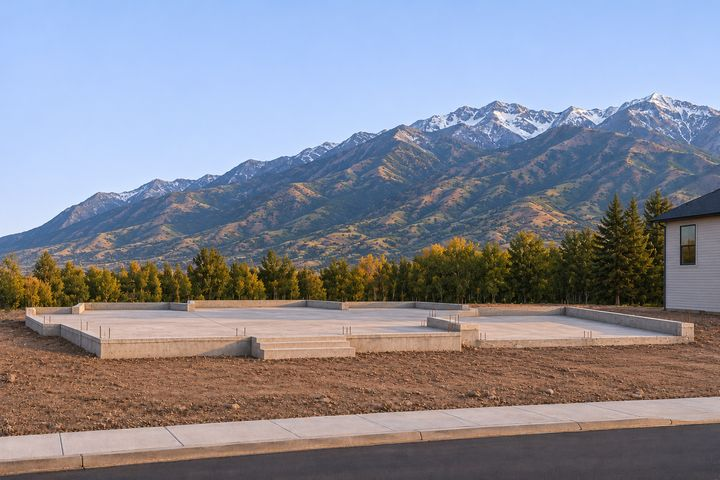
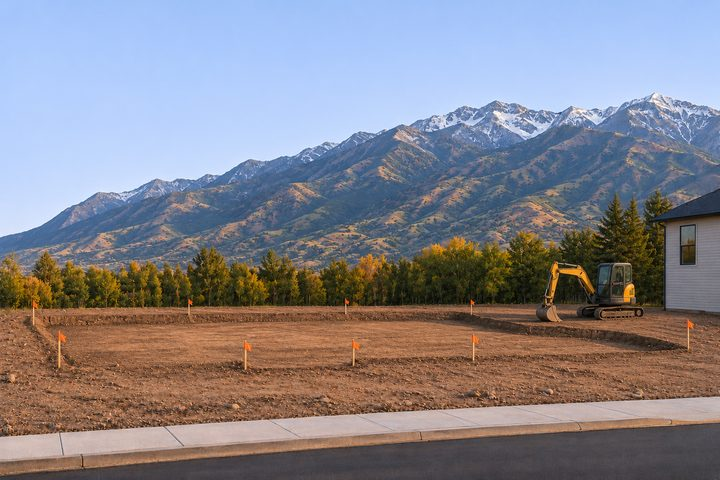
Add files via upload

diff --git a/build.js b/build.js
@@ -1,10 +1,10 @@
 /* Scroll-built house: a small card in the bottom-right corner.
-   The house goes foundation -> framing -> paint -> finished as the visitor scrolls the page. */
+   The house goes site prep -> foundation -> framing -> dry-in -> siding -> finished as the visitor scrolls the page. */
 (() => {
   const es = (document.documentElement.dataset.page || document.documentElement.lang || '').startsWith('es');
   const T = es
-    ? { steps: ['Cimientos', 'Madera', 'Pintura', 'Terminada'], step: (n) => `Paso ${n} de 4`, done: 'Lista', cta: 'Cotiza la tuya gratis', hide: 'Ocultar', label: 'Una casa que se construye mientras bajas' }
-    : { steps: ['Foundation', 'Framing', 'Paint', 'Finished'], step: (n) => `Step ${n} of 4`, done: 'Done', cta: 'Get your free quote', hide: 'Hide', label: 'A house that builds as you scroll' };
+    ? { steps: ['Terreno', 'Cimientos', 'Madera', 'Cerramiento', 'Fachada', 'Terminada'], step: (n) => `Paso ${n} de 6`, done: 'Lista', cta: 'Cotiza la tuya gratis', hide: 'Ocultar', label: 'Una casa que se construye mientras bajas' }
+    : { steps: ['Site Prep', 'Foundation', 'Framing', 'Dry-in', 'Siding & Paint', 'Finished'], step: (n) => `Step ${n} of 6`, done: 'Done', cta: 'Get your free quote', hide: 'Hide', label: 'A house that builds as you scroll' };
   try { if (sessionStorage.getItem('cplus-build') === 'off') return; } catch (_) {}
 
   const el = document.createElement('aside');
@@ -12,14 +12,14 @@
   el.setAttribute('aria-label', T.label);
   el.innerHTML = `
     <div class="bFrame">
-      ${[1, 2, 3, 4].map((n) => `<img class="bL" src="img/build-${n}.jpg" alt="" width="720" height="480" ${n > 1 ? 'loading="lazy"' : ''} decoding="async">`).join('')}
+      ${[1, 2, 3, 4, 5, 6].map((n) => `<img class="bL" src="img/build-${n}.jpg" alt="" width="720" height="480" ${n > 1 ? 'loading="lazy"' : ''} decoding="async">`).join('')}
       <i class="bEdge" aria-hidden="true"></i>
     </div>
     <div class="bMeta">
       <div class="bTxt"><span class="bStep"></span><strong class="bName"></strong></div>
       <a class="bCta" href="#estimate">${T.cta} <span aria-hidden="true">&#8594;</span></a>
     </div>
-    <div class="bBar" aria-hidden="true"><i></i><i></i><i></i><i></i></div>
+    <div class="bBar" aria-hidden="true"><i></i><i></i><i></i><i></i><i></i><i></i></div>
     <button type="button" class="bX" aria-label="${T.hide}"><svg viewBox="0 0 24 24" aria-hidden="true"><path d="M6 6l12 12M18 6L6 18"/></svg></button>`;
   document.body.appendChild(el);
 
@@ -27,7 +27,7 @@
   const segs = [...el.querySelectorAll('.bBar i')];
   const edge = el.querySelector('.bEdge'), stepEl = el.querySelector('.bStep'), nameEl = el.querySelector('.bName');
   // Each later stage rises in over its own stretch of the page, with pauses between.
-  const windows = [[0.10, 0.30], [0.40, 0.60], [0.70, 0.90]];
+  const windows = [0, 1, 2, 3, 4].map((i) => [0.04 + i * 0.18, 0.16 + i * 0.18]);
   const ease = (x) => x * x * (3 - 2 * x);
   const clamp = (x) => Math.min(1, Math.max(0, x));
   let last = -1, ticking = false;
@@ -36,7 +36,7 @@
     ticking = false;
     const max = document.documentElement.scrollHeight - innerHeight;
     const p = max > 0 ? clamp(scrollY / max) : 0;
-    el.classList.toggle('on', scrollY > 60);
+    el.classList.toggle('mini', scrollY < 80);
     let stage = 0, edgeAt = -1;
     windows.forEach(([a, b], i) => {
       const r = ease(clamp((p - a) / (b - a)));
@@ -50,15 +50,17 @@
     segs.forEach((s, i) => s.classList.toggle('f', i <= stage));
     if (stage !== last) {
       last = stage;
-      stepEl.textContent = stage === 3 ? T.done : T.step(stage + 1);
+      stepEl.textContent = stage === 5 ? T.done : T.step(stage + 1);
       nameEl.textContent = T.steps[stage];
-      el.classList.toggle('done', stage === 3);
+      el.classList.toggle('done', stage === 5);
     }
   }
   const ask = () => { if (!ticking) { ticking = true; requestAnimationFrame(draw); } };
   addEventListener('scroll', ask, { passive: true });
   addEventListener('resize', ask);
   draw();
+  // Shown from the landing screen, once the intro has faded.
+  setTimeout(() => el.classList.add('on'), 1400);
 
   el.querySelector('.bX').addEventListener('click', () => {
     el.remove();

diff --git a/site.css b/site.css
@@ -359,12 +359,12 @@ svg.ix{width:18px;height:18px;fill:none;stroke:currentColor;stroke-width:2.2;str
 .bMeta{display:flex;align-items:center;justify-content:space-between;gap:8px;padding:9px 6px 4px}
 .bTxt{display:flex;flex-direction:column;line-height:1.15}
 .bStep{font-size:11px;font-weight:700;letter-spacing:.12em;text-transform:uppercase;color:var(--or2)}
-.bName{font:700 18px/1.15 "Bricolage Grotesque",Figtree,sans-serif}
+.bName{font:700 18px/1.15 "Bricolage Grotesque",Figtree,sans-serif;white-space:nowrap}
 .bCta{font-size:13px;font-weight:700;color:var(--night);background:var(--or);padding:7px 11px;border-radius:999px;text-decoration:none;white-space:nowrap;
   opacity:0;transform:translateX(8px);pointer-events:none;transition:opacity .35s,transform .35s var(--ease),background .2s}
 .build.done .bCta{opacity:1;transform:none;pointer-events:auto}
 .bCta:hover{background:var(--or2)}
-.bBar{display:grid;grid-template-columns:repeat(4,1fr);gap:4px;padding:4px 6px 4px}
+.bBar{display:grid;grid-template-columns:repeat(6,1fr);gap:3px;padding:4px 6px 4px}
 .bBar i{height:3px;border-radius:3px;background:#ffffff26;transition:background .35s}
 .bBar i.f{background:var(--or)}
 .bX{position:absolute;top:-9px;right:-9px;width:26px;height:26px;border-radius:50%;border:1px solid #ffffff2e;background:#1b1713;color:#fff;
@@ -378,6 +378,12 @@ svg.ix{width:18px;height:18px;fill:none;stroke:currentColor;stroke-width:2.2;str
   .bMeta{flex-wrap:wrap;padding:7px 4px 2px}
   .bCta{font-size:12px;padding:5px 9px;display:none}
   .build.done .bCta{display:inline-block}
+  /* On the phone's landing screen: a small photo beside the hero buttons, full card once scrolling starts */
+  .build{transition:opacity .45s var(--ease),transform .55s var(--ease),bottom .4s var(--ease),width .4s var(--ease)}
+  .build.mini{width:96px;bottom:150px;padding:4px;border-radius:12px}
+  .build.mini .bFrame{border-radius:9px}
+  .build.mini .bMeta,.build.mini .bX{display:none}
+  .build.mini .bBar{padding:4px 2px 1px;gap:2px}
 }
 @media (prefers-reduced-motion:reduce){.build,.bCta,.bBar i{transition:none}.bL{transform:none}}
 @media print{.build{display:none}}

diff --git a/es.html b/es.html
@@ -206,7 +206,7 @@
 <link rel="preconnect" href="https://fonts.googleapis.com">
 <link rel="preconnect" href="https://fonts.gstatic.com" crossorigin>
 <link rel="stylesheet" href="https://fonts.googleapis.com/css2?family=Bricolage+Grotesque:opsz,wght@12..96,600;12..96,800&family=Figtree:wght@400;500;600;700&display=swap">
-<link rel="stylesheet" href="site.css?v=4">
+<link rel="stylesheet" href="site.css?v=6">
 <link rel="preload" as="image" href="img/pergola-blanca.jpg">
 </head>
 <body>
@@ -474,6 +474,6 @@
 <script src="api.js?v=2" defer></script>
 <script src="depth3d.js?v=1" defer></script>
 <script src="site.js?v=3" defer></script>
-<script src="build.js?v=1" defer></script>
+<script src="build.js?v=4" defer></script>
 </body>
 </html>

diff --git a/index.html b/index.html
@@ -206,7 +206,7 @@
 <link rel="preconnect" href="https://fonts.googleapis.com">
 <link rel="preconnect" href="https://fonts.gstatic.com" crossorigin>
 <link rel="stylesheet" href="https://fonts.googleapis.com/css2?family=Bricolage+Grotesque:opsz,wght@12..96,600;12..96,800&family=Figtree:wght@400;500;600;700&display=swap">
-<link rel="stylesheet" href="site.css?v=4">
+<link rel="stylesheet" href="site.css?v=6">
 <link rel="preload" as="image" href="img/pergola-blanca.jpg">
 </head>
 <body>
@@ -474,6 +474,6 @@
 <script src="api.js?v=2" defer></script>
 <script src="depth3d.js?v=1" defer></script>
 <script src="site.js?v=3" defer></script>
-<script src="build.js?v=1" defer></script>
+<script src="build.js?v=4" defer></script>
 </body>
 </html>
